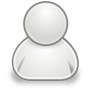
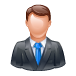
teacherinfo img modify

diff --git a/ccweb/src/main/java/com/knet51/ccweb/controllers/teacher/TeacherController.java b/ccweb/src/main/java/com/knet51/ccweb/controllers/teacher/TeacherController.java
@@ -125,11 +125,20 @@ public class TeacherController {
 			logger.info("### detailInfoForm Validation passed. ###");
 			logger.info("### "+ personalInfoForm.getGender() +" ###");
 			UserInfo userInfo = (UserInfo) session.getAttribute(GlobalDefs.SESSION_USER_INFO);
+			String photo_url=userInfo.getPhotoUrl();
+			String photoUrl=photo_url.substring(0,photo_url.lastIndexOf("/")+1);
 			User user = userService.findOne(userInfo.getId());
 			user = userService.updateUser(user);
 			Teacher teacher = new Teacher(user);
 			user.setName(personalInfoForm.getName().trim());
 			user.setGender(personalInfoForm.getGender());
+			if(personalInfoForm.getGender().equals("女")){
+				String photoName="avatar91.png";
+				user.setPhoto_url(photoUrl+photoName);
+			}else{
+				String photoName="avatar90.png";
+				user.setPhoto_url(photoUrl+photoName);
+			}
 			teacher.setCollege(personalInfoForm.getCollege().trim());
 			teacher.setSchool(personalInfoForm.getSchool().trim());
 			teacher.setTitle(personalInfoForm.getTitle().trim());
